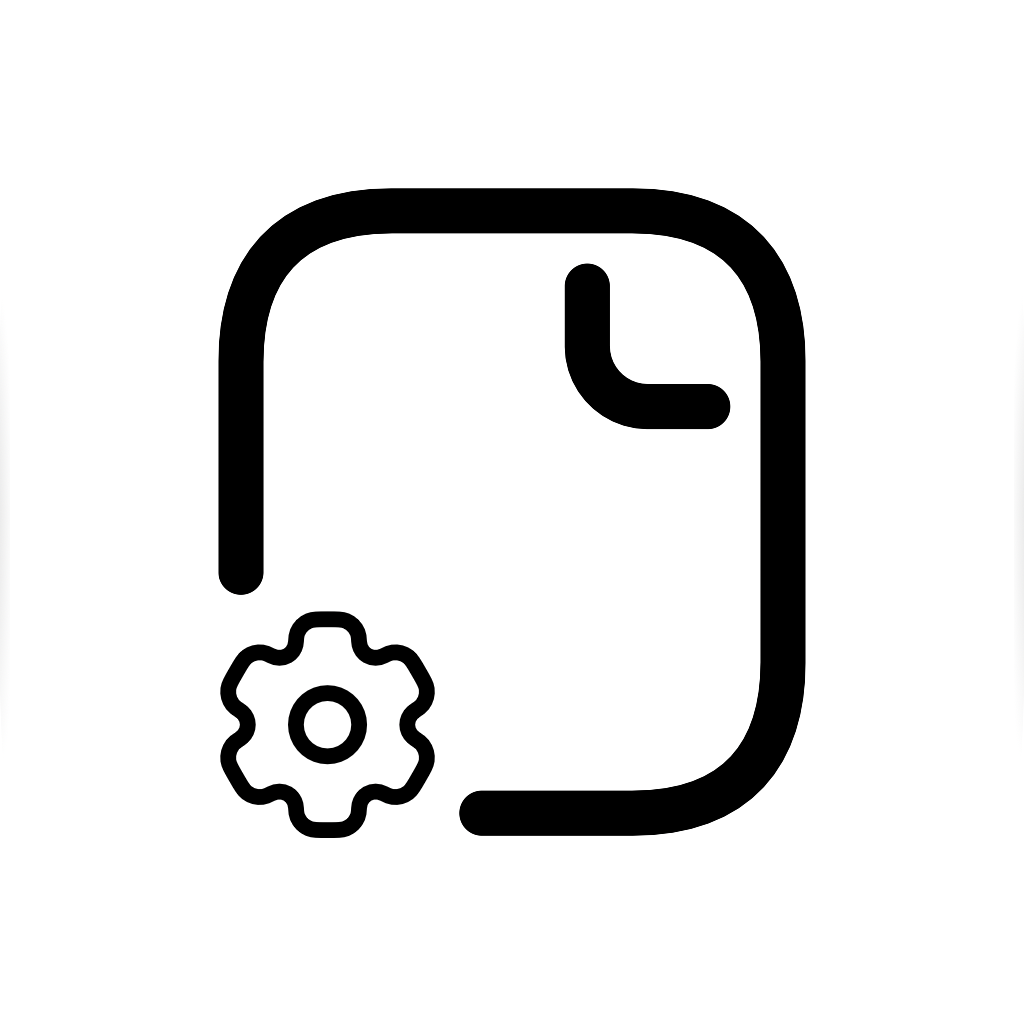
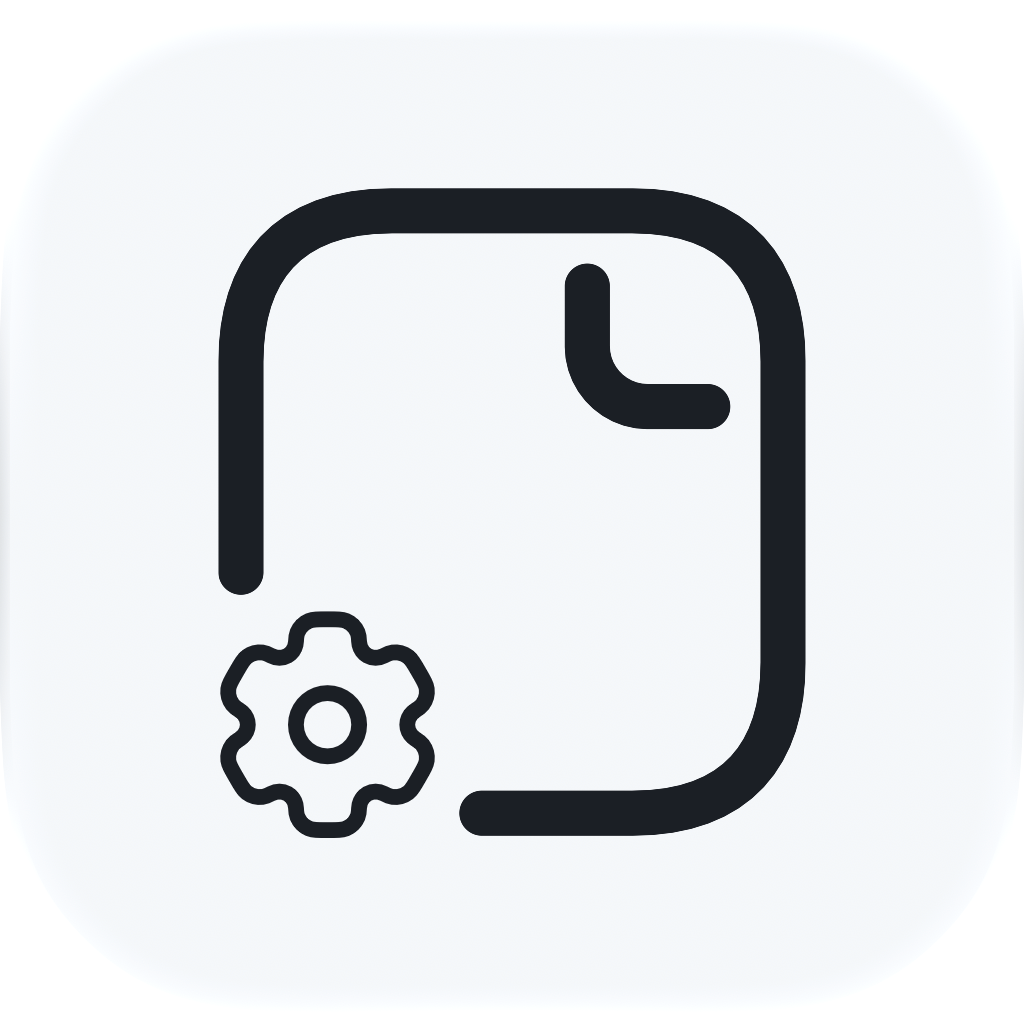
Improving Desktop App for MacOS27

Changed region(s): [[0.1875, 0.1562, 0.8125, 0.8438], [0.2188, 0.5938, 0.4375, 0.8438]]

diff --git a/test/desktop/app_icon.test.ts b/test/desktop/app_icon.test.ts
@@ -1,6 +1,7 @@
 /**
  * Guards the desktop app icon source: every layer's image exists, both the
- * background and the glyph have a dark look, and the fallback PNG is there.
+ * background and the glyph have a dark look, the glyph stays visible in the
+ * Clear and Tinted looks, and the fallback PNG is there.
  */
 import { describe, it } from "@std/testing/bdd";
 import { expect } from "@std/expect";
@@ -13,6 +14,7 @@ const ICON = join(ROOT, "desktop", "AppIcon.icon");
 
 interface Specialization {
   readonly appearance?: string;
+  readonly value?: unknown;
 }
 
 interface IconDocument {
@@ -21,6 +23,7 @@ interface IconDocument {
     readonly layers: readonly {
       readonly "image-name": string;
       readonly "fill-specializations"?: readonly Specialization[];
+      readonly "glass-specializations"?: readonly Specialization[];
     }[];
   }[];
 }
@@ -30,8 +33,11 @@ const document = JSON.parse(
 ) as IconDocument;
 const layers = document.groups.flatMap((group) => group.layers);
 
-function hasDark(specializations: readonly Specialization[] | undefined) {
-  return specializations?.some((entry) => entry.appearance === "dark") ===
+function has(
+  specializations: readonly Specialization[] | undefined,
+  appearance: string,
+): boolean {
+  return specializations?.some((entry) => entry.appearance === appearance) ===
     true;
 }
 
@@ -48,9 +54,26 @@ describe("desktop/AppIcon.icon", () => {
   }
 
   it("inverts in dark mode: background and glyph both change", () => {
-    expect(hasDark(document["fill-specializations"])).toBe(true);
-    expect(layers.every((layer) => hasDark(layer["fill-specializations"])))
+    expect(has(document["fill-specializations"], "dark")).toBe(true);
+    expect(layers.every((layer) => has(layer["fill-specializations"], "dark")))
       .toBe(true);
+  });
+
+  // Clear and Tinted draw every layer as tinted glass. A flat layer with a
+  // colour meant for Default blends into the background there, so each layer
+  // needs glass and its own colour for the "tinted" appearance, which covers
+  // both looks.
+  it("stays visible in the Clear and Tinted looks", () => {
+    for (const layer of layers) {
+      const glass = layer["glass-specializations"]?.find((entry) =>
+        entry.appearance === "tinted"
+      );
+      expect({ layer: layer["image-name"], glass: glass?.value }).toEqual({
+        layer: layer["image-name"],
+        glass: true,
+      });
+      expect(has(layer["fill-specializations"], "tinted")).toBe(true);
+    }
   });
 
   it("has the fallback PNG deno desktop builds the .icns from", () => {
